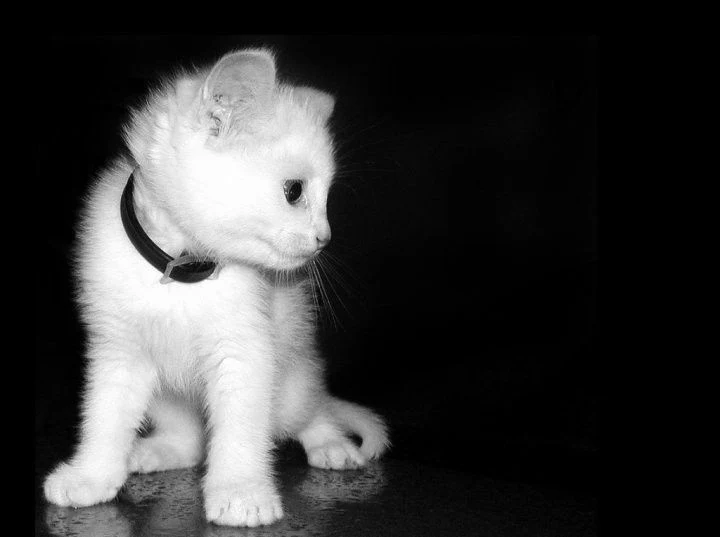
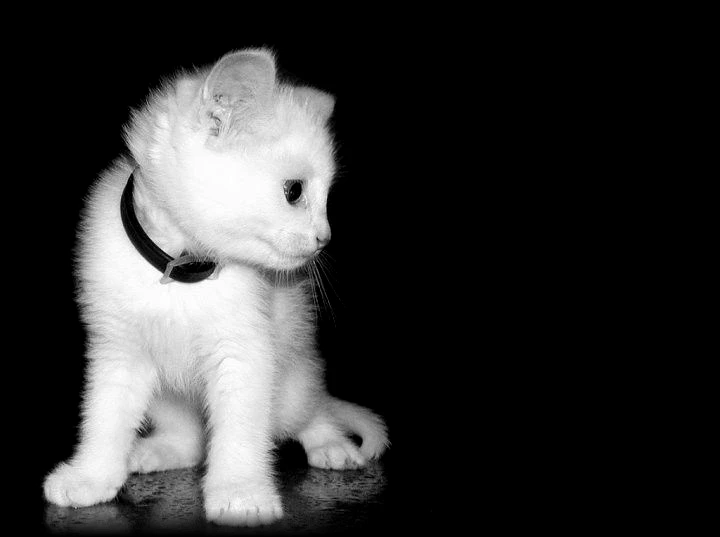
Preview: hamster inside Chomik app, static wallpaper with script text, list/gallery commands, doc titles
Claude-Session: https://claude.ai/code/session_01Pno2C8GPG7dUnUSCqh2kHe

Changed region(s): [[0.0611, 0.9534, 0.55, 1.0]]

diff --git a/preview/index.html b/preview/index.html
@@ -11,12 +11,15 @@
 <link rel="preconnect" href="https://fonts.googleapis.com"><link rel="preconnect" href="https://fonts.gstatic.com" crossorigin>
 <link href="https://fonts.googleapis.com/css2?family=Inter:wght@400;500;600;700&display=swap" rel="stylesheet">
 <link rel="preload" as="image" href="/preview/assets/cat.webp" type="image/webp">
+<link rel="preload" as="font" type="font/woff2" href="/preview/assets/great-vibes.woff2" crossorigin>
 <style>
+@font-face{font-family:"Great Vibes";font-style:normal;font-weight:400;font-display:swap;src:url(/preview/assets/great-vibes.woff2) format("woff2")}
 :root{
   --bg:#000; --panel:#0f0f0f; --raise:#171717; --raise2:#1f1f1f;
   --line:rgba(255,255,255,.12); --line2:rgba(255,255,255,.07);
   --ink:#f5f5f5; --soft:#a6a6a6; --dim:#6f6f6f;
   --r:14px;
+  --ease:cubic-bezier(.2,.8,.2,1);
   --font:"Segoe UI Variable","Segoe UI",Inter,system-ui,sans-serif;
   --mono:ui-monospace,SFMono-Regular,Menlo,Consolas,monospace;
 }
@@ -27,10 +30,21 @@ button{font:inherit;color:inherit;cursor:pointer;border:0;background:none}
 a{color:inherit}
 :focus-visible{outline:2px solid #fff;outline-offset:2px}
 
-/* ---------- wallpaper ---------- */
-.scene{position:fixed;inset:-24px;z-index:0;background:#000 url(/preview/assets/cat.webp) no-repeat left bottom / auto 100%;transition:transform .5s cubic-bezier(.2,.7,.2,1);will-change:transform}
-.scene::after{content:"";position:absolute;inset:0;background:radial-gradient(ellipse 90% 90% at 30% 60%,transparent 55%,rgba(0,0,0,.65) 100%)}
-@media (max-aspect-ratio:1/1){.scene{background-size:auto 62%;background-position:-6% 88%}}
+/* ---------- wallpaper: kitten + script text (static) ---------- */
+.scene{position:fixed;inset:0;z-index:0;overflow:hidden;background:#000 url(/preview/assets/cat.webp) no-repeat left bottom / auto 100%}
+.scene::after{content:"";position:absolute;inset:0;background:radial-gradient(ellipse 90% 90% at 30% 60%,transparent 55%,rgba(0,0,0,.6) 100%)}
+.hi{
+  position:absolute;left:47%;top:13%;z-index:1;white-space:nowrap;pointer-events:none;
+  font:400 clamp(96px,14.5vw,230px)/1.1 "Great Vibes","Snell Roundhand","Brush Script MT",cursive;
+  color:#fff;transform:rotate(-6deg);transform-origin:left center;
+  text-shadow:0 0 2px rgba(255,255,255,.5),0 0 44px rgba(255,255,255,.28);
+  animation:hiIn 1.3s .1s var(--ease) both;
+}
+@keyframes hiIn{from{opacity:0;filter:blur(12px);transform:translateY(18px) rotate(-6deg)}to{opacity:1;filter:blur(0);transform:rotate(-6deg)}}
+@media (max-aspect-ratio:1/1){
+  .scene{background-size:auto 62%;background-position:-6% 88%}
+  .hi{left:50%;top:13%;translate:-50% 0;font-size:27vw;transform-origin:center}
+}
 
 /* ---------- desktop icons ---------- */
 .icons{position:fixed;top:14px;right:14px;z-index:2;display:flex;gap:2px}
@@ -59,12 +73,11 @@ a{color:inherit}
   border-radius:var(--r);background:var(--panel);border:1px solid var(--line);
   box-shadow:0 18px 50px rgba(0,0,0,.65);
   max-width:calc(100vw - 16px);max-height:calc(100vh - 16px);
-  animation:pop .18s ease-out;
+  animation:pop .2s ease-out;
 }
 .win.closing{animation:out .12s ease forwards}
 .win.dragging{will-change:translate}
 .win.max{translate:none!important;width:100vw!important;height:100vh!important;max-width:none;max-height:none;border-radius:0}
-.win.front{z-index:99999}
 @keyframes pop{from{opacity:.3;transform:scale(.96)}to{opacity:1;transform:none}}
 @keyframes out{to{opacity:0;transform:scale(.97)}}
 
@@ -80,10 +93,18 @@ a{color:inherit}
 .body::-webkit-scrollbar{width:10px}
 .body::-webkit-scrollbar-thumb{background:rgba(255,255,255,.2);border-radius:10px;border:3px solid transparent;background-clip:content-box}
 
-/* chomik window */
-.hero h1{font-size:58px;line-height:1;font-weight:700;letter-spacing:-.04em;margin:12px 0 14px;background:linear-gradient(180deg,#fff 30%,#8a8a8a);-webkit-background-clip:text;background-clip:text;color:transparent}
+/* chomik app */
+.home{display:grid;grid-template-columns:1fr 224px;gap:28px;align-items:center;padding:6px 0 2px}
+.hero h1{font-size:58px;line-height:1;font-weight:700;letter-spacing:-.04em;margin:6px 0 14px;background:linear-gradient(180deg,#fff 30%,#8a8a8a);-webkit-background-clip:text;background-clip:text;color:transparent}
 .hero p{font-size:15.5px;line-height:1.6;color:var(--soft);max-width:340px}
 .actions{display:flex;gap:10px;margin-top:26px;flex-wrap:wrap}
+.pet{
+  width:224px;aspect-ratio:1;border-radius:20px;overflow:hidden;background:#fff;
+  box-shadow:0 0 0 1px rgba(255,255,255,.25),0 18px 50px rgba(255,255,255,.1);
+  transform:rotate(2deg);transition:transform .45s cubic-bezier(.3,1.5,.5,1);
+}
+.pet:hover{transform:rotate(-2deg) scale(1.04)}
+.pet img{display:block;width:100%;height:100%;object-fit:cover;pointer-events:none;-webkit-user-drag:none}
 .btn{
   display:inline-flex;align-items:center;gap:8px;height:44px;padding:0 20px;border-radius:12px;
   font-weight:600;font-size:14.5px;text-decoration:none;transition:transform .15s,background .15s,border-color .15s;
@@ -97,28 +118,35 @@ a{color:inherit}
 .btn.alt:hover{background:rgba(255,255,255,.08);border-color:rgba(255,255,255,.4)}
 .btn.sm{height:36px;padding:0 15px;font-size:13.5px}
 
-/* image window */
-#w-image{z-index:99999}
-#w-image .body{padding:0 8px 8px;overflow:hidden}
-#w-image img{display:block;width:100%;height:auto;border-radius:9px;pointer-events:none;-webkit-user-drag:none}
-
-/* commands (kept cheap to paint so scrolling stays smooth) */
-.search{position:relative;margin:2px 0 12px}
+/* commands: sticky header, list / gallery */
+.chead{position:sticky;top:0;z-index:3;background:var(--panel);padding:8px 0 6px}
+.srow{display:flex;gap:8px;margin-bottom:10px}
+.search{position:relative;flex:1;min-width:0}
 .search svg{position:absolute;left:13px;top:50%;width:16px;height:16px;transform:translateY(-50%);fill:none;stroke:var(--dim);stroke-width:2;stroke-linecap:round}
 .search input{width:100%;height:40px;border-radius:10px;border:1px solid var(--line);background:var(--raise);padding:0 14px 0 38px;font:inherit;font-size:14.5px;color:#fff;outline:none;user-select:text;-webkit-user-select:text}
 .search input::placeholder{color:var(--dim)}
 .search input:focus{border-color:#fff;box-shadow:0 0 0 3px rgba(255,255,255,.14)}
-.cats{display:flex;gap:6px;flex-wrap:wrap;margin-bottom:12px}
-.cats button{display:inline-flex;align-items:center;gap:6px;height:28px;padding:0 12px 0 10px;border-radius:999px;font-size:12.5px;font-weight:600;background:var(--raise);border:1px solid var(--line);color:#c4c4c4}
-.cats button::before{content:"";width:8px;height:8px;border-radius:50%;background:var(--c,#fff)}
+.seg{position:relative;display:flex;flex:none;padding:3px;border-radius:12px;background:var(--raise);border:1px solid var(--line)}
+.seg .thumb{position:absolute;left:3px;top:3px;width:36px;height:32px;border-radius:9px;background:#fff;transition:transform .32s cubic-bezier(.3,1.4,.5,1)}
+.seg[data-v=gallery] .thumb{transform:translateX(36px)}
+.seg button{position:relative;z-index:1;width:36px;height:32px;display:grid;place-items:center;color:var(--soft);transition:color .25s}
+.seg button[aria-pressed=true]{color:#000}
+.seg svg{width:16px;height:16px;fill:none;stroke:currentColor;stroke-width:1.8;stroke-linecap:round;stroke-linejoin:round}
+.cats{display:flex;gap:6px;flex-wrap:wrap}
+.cats button{display:inline-flex;align-items:center;gap:6px;height:28px;padding:0 12px 0 10px;border-radius:999px;font-size:12.5px;font-weight:600;background:var(--raise);border:1px solid var(--line);color:#c4c4c4;transition:background .22s,color .22s,border-color .22s,transform .15s}
+.cats button::before{content:"";width:8px;height:8px;border-radius:50%;background:var(--c,#fff);transition:background .22s}
 .cats button:hover{border-color:rgba(255,255,255,.3)}
-.cats button[aria-pressed=true]{background:var(--c,#fff);color:#000;border-color:transparent}
+.cats button:active{transform:scale(.94)}
+.cats button[aria-pressed=true]{background:var(--c,#fff);color:#000;border-color:transparent;animation:chip .4s cubic-bezier(.3,1.6,.5,1)}
 .cats button[aria-pressed=true]::before{background:#000}
-.cmds{list-style:none;display:grid;gap:6px}
+@keyframes chip{0%{transform:scale(.9)}60%{transform:scale(1.08)}100%{transform:scale(1)}}
+
+.cmds{list-style:none;display:grid;gap:6px;padding-top:6px}
 .cmd{
   --c:#fff;position:relative;padding:11px 13px 11px 17px;border-radius:10px;cursor:pointer;
   background:var(--raise);border:1px solid var(--line2);
   content-visibility:auto;contain-intrinsic-size:auto 76px;
+  transition:background .15s,border-color .15s,transform .15s;
 }
 .cmd::before{content:"";position:absolute;left:0;top:9px;bottom:9px;width:3px;border-radius:0 3px 3px 0;background:var(--c)}
 .cmd:hover{background:var(--raise2);border-color:var(--line)}
@@ -126,7 +154,22 @@ a{color:inherit}
 .cmd em{font:500 12.5px var(--mono);color:var(--dim);font-style:normal}
 .cmd p{font-size:13.5px;color:var(--soft);margin-top:3px;line-height:1.4}
 .cmd small,.pill{float:right;font-size:10.5px;font-weight:700;letter-spacing:.02em;color:#000;background:var(--c);border-radius:6px;padding:2px 7px;margin-left:8px}
-.empty{padding:30px 0;text-align:center;color:var(--soft);font-size:14px}
+.cmd.enter{animation:rise .42s var(--ease) both;animation-delay:var(--d,0ms)}
+.gal .cmd.enter{animation-name:riseG}
+@keyframes rise{from{opacity:0;transform:translateY(12px)}to{opacity:1;transform:none}}
+@keyframes riseG{from{opacity:0;transform:translateY(14px) scale(.94)}to{opacity:1;transform:none}}
+
+/* gallery view */
+.cmds.gal{grid-template-columns:repeat(auto-fill,minmax(168px,1fr));gap:8px}
+.gal .cmd{display:flex;flex-direction:column;min-height:136px;padding:15px 14px 12px;border-radius:12px;contain-intrinsic-size:auto 140px}
+.gal .cmd::before{left:0;right:0;top:0;bottom:auto;width:auto;height:3px;border-radius:12px 12px 0 0}
+.gal .cmd small{order:-1;float:none;align-self:flex-start;margin:0 0 12px}
+.gal .cmd b{font-size:15px;word-break:break-word}
+.gal .cmd em{display:none}
+.gal .cmd p{flex:1;display:-webkit-box;-webkit-line-clamp:3;-webkit-box-orient:vertical;overflow:hidden;font-size:12.8px;margin-top:6px}
+.gal .cmd::after{content:attr(data-n);margin-top:12px;font-size:11px;letter-spacing:.05em;text-transform:uppercase;color:var(--dim)}
+.gal .cmd:hover{transform:translateY(-2px);border-color:var(--c)}
+.empty{grid-column:1/-1;padding:30px 0;text-align:center;color:var(--soft);font-size:14px}
 .count{padding-top:12px;font-size:12px;color:var(--dim);text-align:center}
 
 /* command details window */
@@ -146,8 +189,8 @@ a{color:inherit}
 .det .actions{margin-top:22px}
 
 /* documents */
+.doc h1{font-size:36px;line-height:1.05;font-weight:700;letter-spacing:-.04em;margin:4px 0 6px;background:linear-gradient(180deg,#fff 30%,#8a8a8a);-webkit-background-clip:text;background-clip:text;color:transparent}
 .doc h2{font-size:15px;margin:22px 0 6px;letter-spacing:-.01em;color:#fff}
-.doc h2:first-of-type{margin-top:6px}
 .doc p,.doc li{font-size:14.5px;line-height:1.65;color:var(--soft)}
 .doc p+p,.doc ul{margin-top:8px}
 .doc ul{padding-left:20px}
@@ -155,6 +198,7 @@ a{color:inherit}
 .doc a{color:#fff;text-underline-offset:3px}
 .doc strong{color:#fff}
 .doc .stamp{font-size:12px;color:var(--dim);letter-spacing:.04em;text-transform:uppercase}
+.doc .lead{margin-top:14px}
 
 /* status */
 .banner{display:flex;align-items:center;gap:10px;padding:14px 16px;border-radius:12px;background:var(--raise);border:1px solid var(--line2);font-weight:600;font-size:15px;margin-bottom:10px}
@@ -173,12 +217,14 @@ a{color:inherit}
 
 /* squircle on small static things only (cheap); windows/lists stay plain for smooth scrolling */
 @supports (corner-shape: squircle){
-  .btn,.tile,.icon,.search input,.det code.use{corner-shape:squircle}
-  .btn{border-radius:19px}.tile{border-radius:17px}.tile.sm{border-radius:9px}.search input{border-radius:16px}
+  .btn,.tile,.icon,.search input,.det code.use,.pet{corner-shape:squircle}
+  .btn{border-radius:19px}.tile{border-radius:17px}.tile.sm{border-radius:9px}.search input{border-radius:16px}.pet{border-radius:34px}
 }
 
 @media (max-width:700px){
   .icons{left:6px;right:6px;top:10px;justify-content:center;gap:0}
+  .home{grid-template-columns:1fr;gap:16px}
+  .pet{order:-1;width:112px;transform:rotate(-3deg)}
   .hero h1{font-size:46px}
   .body{padding:6px 16px 18px}
 }
@@ -189,7 +235,7 @@ a{color:inherit}
 </head>
 <body>
 
-<div class="scene" id="scene" aria-hidden="true"></div>
+<div class="scene" aria-hidden="true"><div class="hi">hi lol</div></div>
 
 <!-- Desktop icons -->
 <nav class="icons" aria-label="Apps">
@@ -209,25 +255,38 @@ a{color:inherit}
 
 <!-- App templates -->
 <template id="t-chomik">
-  <div class="hero">
-    <h1>Chomik</h1>
-    <p>A free Discord bot for Roblox lookups, puzzle solving and OSINT. Type a slash command, get the answer in chat.</p>
-    <div class="actions">
-      <a class="btn go" href="https://discord.com/oauth2/authorize?client_id=1493468057983778867" target="_blank" rel="noopener"><svg viewBox="0 0 24 24"><path d="M12 5v14M5 12h14"/></svg>Invite to Discord</a>
-      <button class="btn alt" type="button" data-app="commands"><svg viewBox="0 0 24 24"><use href="#g-commands"/></svg>Commands</button>
+  <div class="home">
+    <div class="hero">
+      <h1>Chomik</h1>
+      <p>A free Discord bot for Roblox lookups, puzzle solving and OSINT. Type a slash command, get the answer in chat.</p>
+      <div class="actions">
+        <a class="btn go" href="https://discord.com/oauth2/authorize?client_id=1493468057983778867" target="_blank" rel="noopener"><svg viewBox="0 0 24 24"><path d="M12 5v14M5 12h14"/></svg>Invite to Discord</a>
+        <button class="btn alt" type="button" data-app="commands"><svg viewBox="0 0 24 24"><use href="#g-commands"/></svg>Commands</button>
+      </div>
     </div>
+    <figure class="pet"><img src="/assets/chomik.webp" alt="Chomik the hamster with a magnifying glass" width="378" height="378" draggable="false"></figure>
   </div>
 </template>
 
 <template id="t-commands">
-  <div class="search"><svg viewBox="0 0 24 24"><circle cx="11" cy="11" r="7"/><path d="m20 20-3.5-3.5"/></svg><input type="search" placeholder="Search commands" aria-label="Search commands" autocomplete="off" spellcheck="false"></div>
-  <div class="cats" role="group" aria-label="Category"></div>
+  <div class="chead">
+    <div class="srow">
+      <div class="search"><svg viewBox="0 0 24 24"><circle cx="11" cy="11" r="7"/><path d="m20 20-3.5-3.5"/></svg><input type="search" placeholder="Search commands" aria-label="Search commands" autocomplete="off" spellcheck="false"></div>
+      <div class="seg" role="group" aria-label="View" data-v="list">
+        <i class="thumb"></i>
+        <button type="button" data-v="list" aria-label="List view" aria-pressed="true"><svg viewBox="0 0 24 24"><path d="M8 6h12M8 12h12M8 18h12M4 6h.01M4 12h.01M4 18h.01"/></svg></button>
+        <button type="button" data-v="gallery" aria-label="Gallery view" aria-pressed="false"><svg viewBox="0 0 24 24"><rect x="4" y="4" width="7" height="7" rx="1.5"/><rect x="13" y="4" width="7" height="7" rx="1.5"/><rect x="4" y="13" width="7" height="7" rx="1.5"/><rect x="13" y="13" width="7" height="7" rx="1.5"/></svg></button>
+      </div>
+    </div>
+    <div class="cats" role="group" aria-label="Category"></div>
+  </div>
   <ul class="cmds"></ul>
   <p class="count"></p>
 </template>
 
 <template id="t-privacy">
   <div class="doc">
+    <h1>Chomik Privacy</h1>
     <p class="stamp">Last updated October 25, 2026</p>
     <h2>Information collection</h2>
     <p>Chomik fetches publicly available information from sites, mainly Roblox, to answer your commands. That information comes from the sites and is subject to their own policies. Chomik does not cache information after it sends the output.</p>
@@ -240,8 +299,9 @@ a{color:inherit}
 
 <template id="t-terms">
   <div class="doc">
+    <h1>Chomik Terms</h1>
     <p class="stamp">Last updated October 25, 2026</p>
-    <p style="margin-top:10px">Welcome to Chomik. By inviting or installing Chomik you agree to these terms.</p>
+    <p class="lead">Welcome to Chomik. By inviting or installing Chomik you agree to these terms.</p>
     <h2>Acceptance of terms</h2>
     <p>By using Chomik, you accept these terms and confirm that you comply with the <a href="https://discord.com/terms" target="_blank" rel="noopener">Discord Terms of Service</a> and <a href="https://discord.com/guidelines" target="_blank" rel="noopener">Discord Community Guidelines</a>.</p>
     <p>You must be at least 13 years old (or the minimum age required in your country) to interact with the bot.</p>
@@ -276,10 +336,10 @@ a{color:inherit}
   var catColor=function(c){return CATCOLOR[c]||'#ffffff'};
 
   var APPS={
-    chomik:  {title:'Chomik',          w:430, tpl:'t-chomik'},
+    chomik:  {title:'Chomik',          w:650, tpl:'t-chomik'},
     commands:{title:'Commands',        w:580, h:540, tpl:'t-commands', glyph:'commands', init:initCommands, max:1},
-    privacy: {title:'Privacy policy',  w:480, h:440, tpl:'t-privacy',  glyph:'privacy',  max:1},
-    terms:   {title:'Terms of service',w:480, h:480, tpl:'t-terms',    glyph:'terms',    max:1},
+    privacy: {title:'Chomik Privacy',  w:500, h:470, tpl:'t-privacy',  glyph:'privacy',  max:1},
+    terms:   {title:'Chomik Terms',    w:500, h:500, tpl:'t-terms',    glyph:'terms',    max:1},
     status:  {title:'Status',          w:440, h:430, tpl:'t-status',   glyph:'status',   init:initStatus}
   };
 
@@ -288,7 +348,7 @@ a{color:inherit}
 
   /* ---------- windows ---------- */
   function setPos(w,x,y){w._x=x;w._y=y;w.style.translate=x+'px '+y+'px'}
-  function front(w){ if(!w.classList.contains('front')) w.style.zIndex=++z }
+  function front(w){ w.style.zIndex=++z }
   function clampPos(w,x,y){return [Math.min(Math.max(x,-w.offsetWidth+90),innerWidth-90),Math.min(Math.max(y,0),innerHeight-44)]}
   function drag(w,bar){
     bar.addEventListener('pointerdown',function(e){
@@ -334,52 +394,59 @@ a{color:inherit}
     return w;
   }
   function cascade(ww,wh){
-    var n=Math.max(0,Object.keys(open).length-2);
-    return [(innerWidth-ww)/2+n*28,Math.max(mobile()?100:60,(innerHeight-wh)/2+n*28)];
+    var n=Math.max(0,Object.keys(open).length-1);
+    return [(innerWidth-ww)/2+n*28-(mobile()?0:120),Math.max(mobile()?100:60,(innerHeight-wh)/2+n*28-20)];
   }
   function openApp(id){
     show(id,APPS[id],id==='chomik'?function(ww,wh){
-      return mobile()?[(innerWidth-ww)/2,Math.max(100,(innerHeight-wh)/2)]:[innerWidth*.46,Math.max(70,(innerHeight-wh)/2-10)];
+      if(mobile()) return [(innerWidth-ww)/2,Math.max(190,innerHeight-wh-24)];
+      return [Math.max(24,Math.min(innerWidth*.44,innerWidth-ww-24)),Math.max(150,innerHeight-wh-56)];
     }:null);
-  }
-
-  /* image window: always on top, bottom right, movable */
-  function imageWindow(){
-    var w=document.createElement('section');
-    w.className='win front'; w.id='w-image'; w.setAttribute('role','figure'); w.setAttribute('aria-label','Chomik');
-    w.style.width=(mobile()?140:290)+'px';
-    w.innerHTML='<div class="bar"><span class="tile sm"><img src="/assets/chomik.webp" alt="" width="20" height="20"></span><span class="ttl">chomik.webp</span></div><div class="body"><img src="/assets/chomik.webp" alt="Chomik" width="378" height="378" draggable="false"></div>';
-    document.body.appendChild(w);
-    var gap=mobile()?12:28;
-    setPos(w,innerWidth-w.offsetWidth-gap,innerHeight-w.offsetHeight-gap);
-    drag(w,$('.bar',w));
   }
 
   /* ---------- commands ---------- */
   function initCommands(w){
-    var input=$('input',w), cats=$('.cats',w), list=$('.cmds',w), count=$('.count',w);
-    var data=window.CHOMIK_COMMANDS||[], cat='All';
+    var input=$('input',w), cats=$('.cats',w), list=$('.cmds',w), count=$('.count',w), seg=$('.seg',w), scroller=$('.body',w);
+    scroller.style.paddingTop='0';
+    var data=window.CHOMIK_COMMANDS||[], cat='All', view='list';
+    try{ if(localStorage.getItem('chomik-view')==='gallery') view='gallery' }catch(e){}
+
     var names=['All'].concat(data.map(function(c){return c.category}).filter(function(v,i,a){return v&&a.indexOf(v)===i}).sort());
     names.forEach(function(n){
       var b=document.createElement('button'); b.type='button'; b.textContent=n; b.setAttribute('aria-pressed',n==='All');
       if(n!=='All') b.style.setProperty('--c',catColor(n));
-      b.addEventListener('click',function(){cat=n;cats.querySelectorAll('button').forEach(function(x){x.setAttribute('aria-pressed',x===b)});render()});
+      b.addEventListener('click',function(){
+        if(cat===n) return; cat=n;
+        cats.querySelectorAll('button').forEach(function(x){x.setAttribute('aria-pressed',x===b)});
+        scroller.scrollTop=0; render(true);
+      });
       cats.appendChild(b);
     });
-    function render(){
+
+    function setView(v,anim){
+      view=v; seg.dataset.v=v;
+      seg.querySelectorAll('button').forEach(function(b){b.setAttribute('aria-pressed',b.dataset.v===v)});
+      try{localStorage.setItem('chomik-view',v)}catch(e){}
+      if(anim){scroller.scrollTop=0; render(true)}
+    }
+    seg.querySelectorAll('button').forEach(function(b){b.addEventListener('click',function(){if(view!==b.dataset.v) setView(b.dataset.v,true)})});
+
+    function render(anim){
       var q=input.value.trim().toLowerCase().replace(/^\//,''), out=document.createDocumentFragment(), n=0;
       list.textContent='';
+      list.className='cmds'+(view==='gallery'?' gal':'');
       data.forEach(function(c,idx){
         if(cat!=='All'&&c.category!==cat) return;
         if(q && (c.name+' '+(c.description||'')).toLowerCase().indexOf(q)<0) return;
-        n++;
         var li=document.createElement('li'); li.className='cmd'; li.tabIndex=0; li.setAttribute('role','button'); li.dataset.i=idx;
+        var np=(c.params||[]).length; li.dataset.n=np?np+(np===1?' option':' options'):'no options';
+        if(anim&&n<16){li.classList.add('enter'); li.style.setProperty('--d',(n*28)+'ms')}
         li.style.setProperty('--c',catColor(c.category));
         var tag=document.createElement('small'); tag.textContent=c.category; li.appendChild(tag);
         var b=document.createElement('b'); b.textContent='/'+c.name; li.appendChild(b);
         (c.params||[]).forEach(function(p){var e=document.createElement('em'); e.textContent=' '+(p.required?'<'+p.name+'>':'['+p.name+']'); li.appendChild(e)});
         var d=document.createElement('p'); d.textContent=c.description||''; li.appendChild(d);
-        out.appendChild(li);
+        out.appendChild(li); n++;
       });
       list.appendChild(out);
       if(!n){var e=document.createElement('li');e.className='empty';e.textContent=data.length?'No commands match that.':'Command list failed to load.';list.appendChild(e)}
@@ -387,7 +454,8 @@ a{color:inherit}
     }
     list.addEventListener('click',function(e){var li=e.target.closest('.cmd'); if(li) openDetails(data[+li.dataset.i],w)});
     list.addEventListener('keydown',function(e){if((e.key==='Enter'||e.key===' ')&&e.target.classList.contains('cmd')){e.preventDefault();openDetails(data[+e.target.dataset.i],w)}});
-    input.addEventListener('input',render); render();
+    input.addEventListener('input',function(){render(false)});
+    setView(view,false); render(true);
     if(!mobile()) setTimeout(function(){input.focus({preventScroll:true})},60);
   }
 
@@ -457,16 +525,7 @@ a{color:inherit}
   document.querySelectorAll('.icon').forEach(function(b){b.addEventListener('click',function(){openApp(b.dataset.app)})});
   addEventListener('resize',function(){document.querySelectorAll('.win:not(.max)').forEach(function(w){var p=clampPos(w,w._x||0,w._y||0);setPos(w,p[0],p[1])})});
 
-  /* tiny parallax on the wallpaper (compositor-only, skipped for reduced motion) */
-  if(!matchMedia('(prefers-reduced-motion:reduce)').matches && matchMedia('(pointer:fine)').matches){
-    var sc=$('#scene'), raf=0, mx=0, my=0;
-    addEventListener('pointermove',function(e){
-      mx=(e.clientX/innerWidth-.5)*-16; my=(e.clientY/innerHeight-.5)*-10;
-      if(!raf) raf=requestAnimationFrame(function(){raf=0;sc.style.transform='translate3d('+mx+'px,'+my+'px,0)'});
-    },{passive:true});
-  }
-
-  openApp('chomik'); imageWindow();
+  openApp('chomik');
   var h=location.hash.slice(1); if(APPS[h]&&h!=='chomik') openApp(h);
 })();
 </script>
